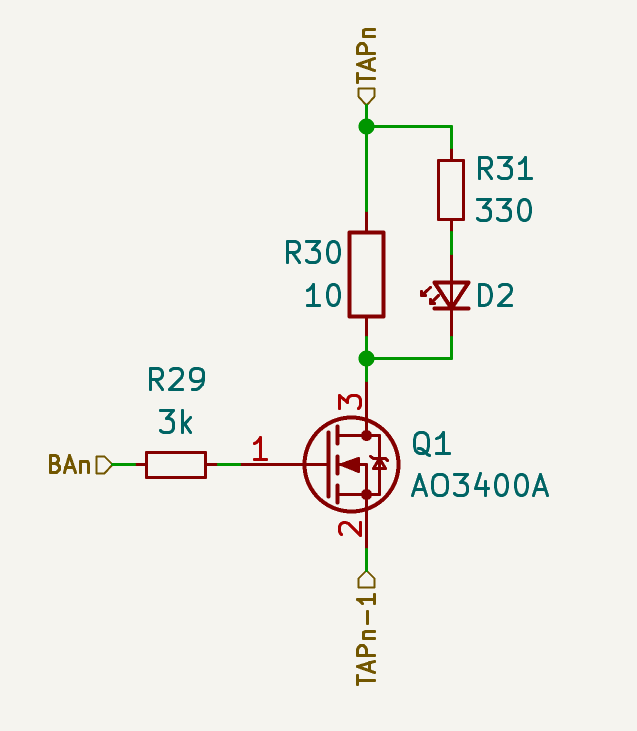
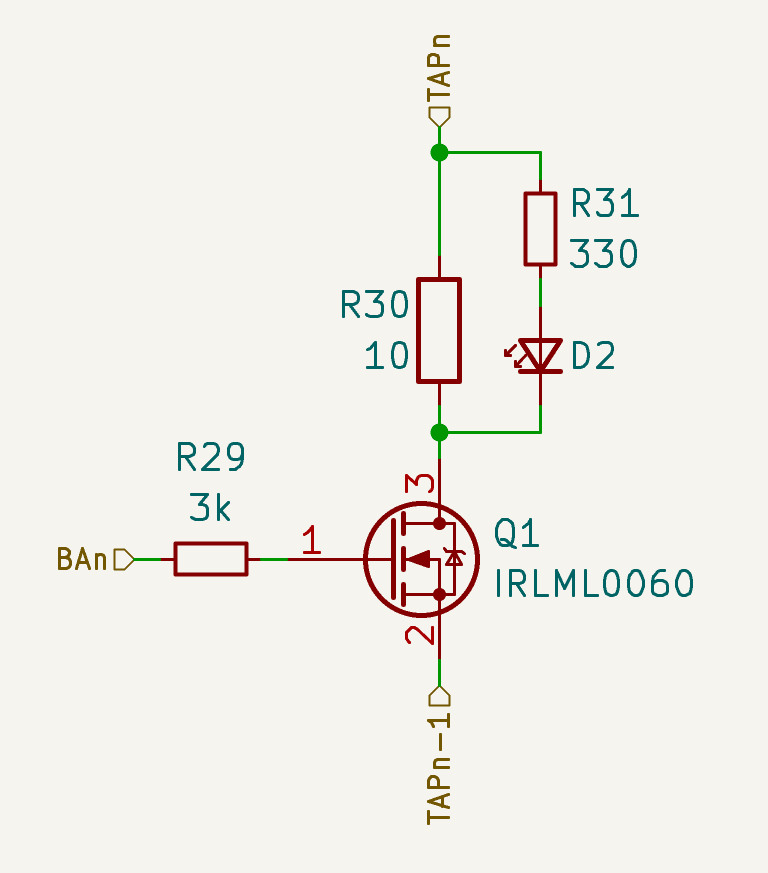
manual: Update BMS balance and thermistor schematics

Changed region(s): [[0.0597, 0.0301, 0.9246, 0.933]]

diff --git a/docs/manual.tex b/docs/manual.tex
@@ -132,7 +132,7 @@ This is a small circuit controllable by software which bleeds off cell energy as
 
 \begin{figure}[H]
   \centering
-  \includegraphics[width=0.5\linewidth]{balance.png}
+  \includegraphics[width=0.6\linewidth]{balance.png}
   \caption{Cell Balance Circuit}
   \label{fig:bms-balance-circuit}
 \end{figure}
